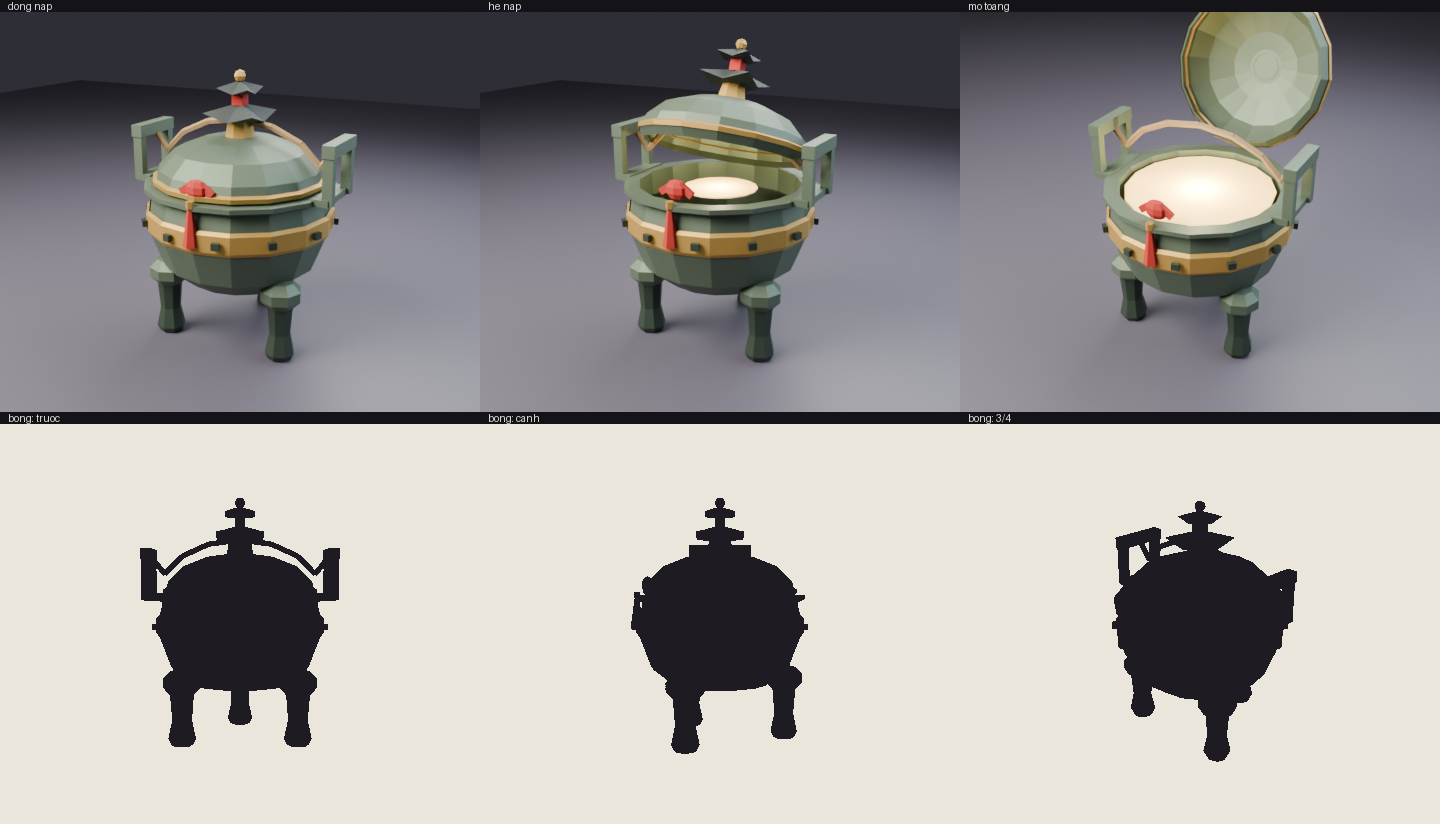
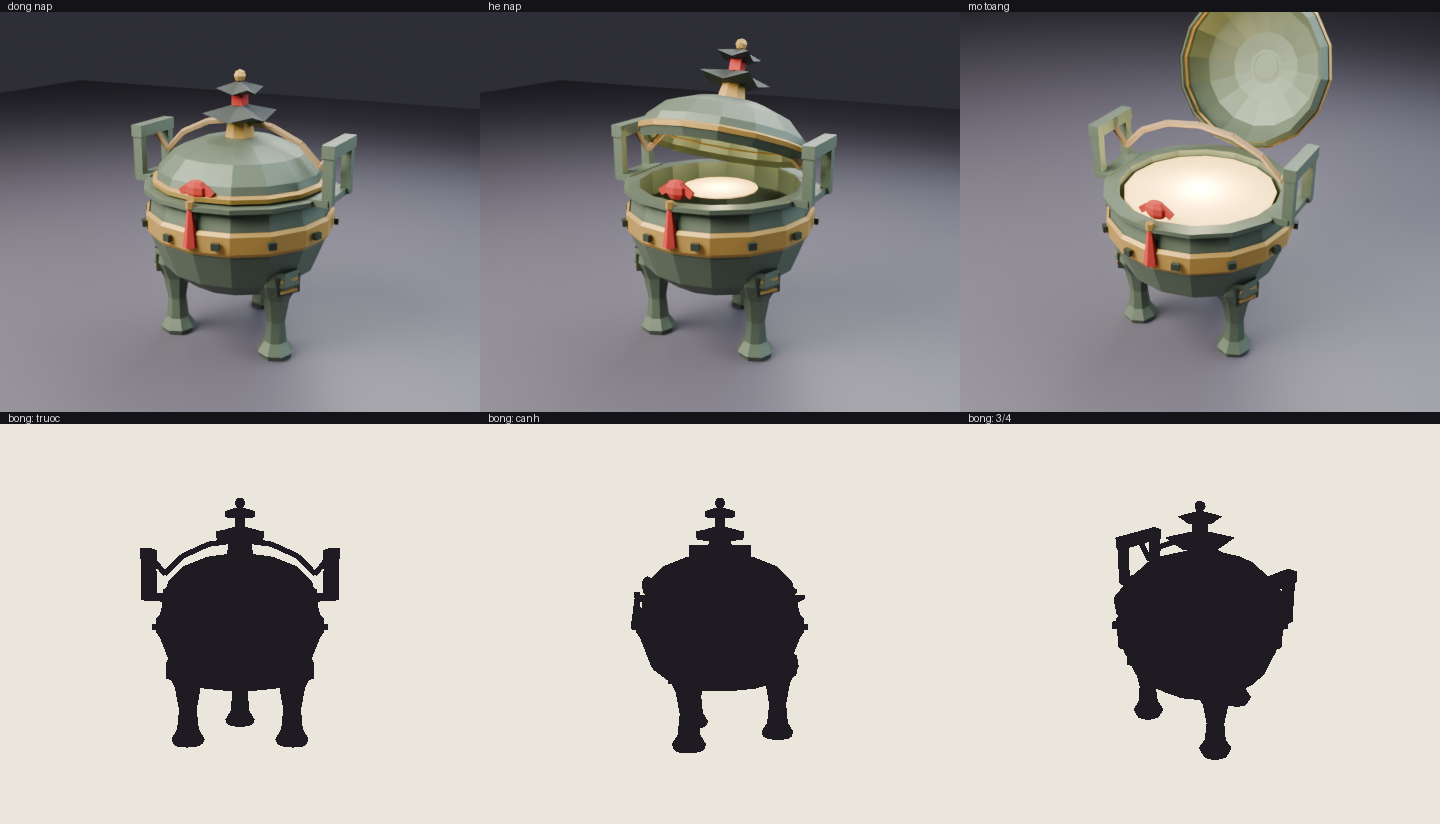
Rương Trung Hoa: chân đỉnh liền khối với thân
Claude-Session: https://claude.ai/code/session_01QKQCdbHbEBDA1zcpSSB5Zp

diff --git a/Tools/Blender/make_chest_trung_hoa.py b/Tools/Blender/make_chest_trung_hoa.py
@@ -61,11 +61,14 @@ for k in range(12):                                                    # raised 
     a = 2 * math.pi * (k + 0.5) / 12
     L["Body"].append(prim("cube", "bronze_dk", (0.18 * math.cos(a), 0.18 * math.sin(a), 0.237), rot=(0, 0, a), scale=(0.008, 0.014, 0.012), size=1))
 for k, a_deg in enumerate((-90 - 60, -90 + 60, 90)):                  # two legs front, one at the back
-    a = math.radians(a_deg); r0, r1 = 0.11, 0.135
-    leg = lathe([(0.022, 0.0), (0.028, 0.012), (0.020, 0.05), (0.024, 0.10), (0.034, 0.135)], "bronze_dk", seg=8,
-                cap_bot=True, loc=(r1 * math.cos(a), r1 * math.sin(a), 0))
-    L["Body"].append(leg)
-    L["Body"].append(prim("uv_sphere", "bronze", (r1 * math.cos(a), r1 * math.sin(a), 0.125), scale=(0.04, 0.04, 0.03), segments=8, ring_count=5, radius=1))  # leg "knee" mask
+    a = math.radians(a_deg); r1 = 0.122; c, sn = math.cos(a), math.sin(a)
+    # leg grows out of the belly: wide flared root buried in the bowl, slim waist, flared hoof foot
+    L["Body"].append(lathe([(0.030, 0.0), (0.034, 0.010), (0.022, 0.030), (0.018, 0.070), (0.026, 0.115), (0.044, 0.150), (0.040, 0.175)],
+                           "bronze", seg=8, cap_bot=True, loc=(r1 * c, r1 * sn, 0)))
+    # taotie mask plate where the leg meets the bowl, facing outward
+    L["Body"].append(prim("cube", "bronze_dk", (0.152 * c, 0.152 * sn, 0.150), rot=(0, 0, a), scale=(0.012, 0.050, 0.034), size=1))
+    for dz in (-0.01, 0.01):
+        L["Body"].append(prim("cube", "gilt", (0.159 * c, 0.159 * sn, 0.150 + dz), rot=(0, 0, a), scale=(0.004, 0.034, 0.005), size=1))
 for sx in (-1, 1):                                                     # upright ears outboard of the rim
     x = sx * 0.19
     for dy in (-0.045, 0.045):

diff --git a/Docs/Art/BanGiao3D.md b/Docs/Art/BanGiao3D.md
@@ -195,7 +195,7 @@ Tham số: độ cao đường nối nắp theo đơn vị nguồn (0,03, nằm 
 
 `Assets/_Project/Art/Chests/Chest_TrungHoa.glb`, **bản tạm, chưa gán ID hay chủ đề**. Ý tưởng: [ruong-trung-hoa](../../docs/superpowers/specs/2026-11-24-ruong-trung-hoa-design.md). Hình dáng là đỉnh đồng ba chân, nắp vòm, núm mái ngói hai tầng, cao khoảng 0,49 m.
 
-- Lớp: root `Chest_TrungHoa` gồm `Body` (1.090 tam giác), `Lid` (342, gốc ở bản lề sau miệng (0; 0,165; 0,30), lật quanh X), `Seal` (nút thắt đỏ có tua, 128), `Binding` (dây gai vắt từ quai này sang quai kia, 128) và `Glow` (đĩa sáng ở miệng, 60). Tổng 1.688 tam giác (không tính Glow). Không có `Key`.
+- Lớp: root `Chest_TrungHoa` gồm `Body` (1.102 tam giác), `Lid` (342, gốc ở bản lề sau miệng (0; 0,165; 0,30), lật quanh X), `Seal` (nút thắt đỏ có tua, 128), `Binding` (dây gai vắt từ quai này sang quai kia, 128) và `Glow` (đĩa sáng ở miệng, 60). Tổng 1.700 tam giác (không tính Glow). Chân cùng màu đồng với thân, gốc chân loe ra và lẫn vào bụng đỉnh, có tấm mặt thú ở chỗ nối. Không có `Key`.
 - Vật liệu đơn sắc: đồng xanh rỉ, vàng đồng, ngói tối, điểm nhấn đỏ. Không dùng texture.
 - Chạy: `pip install bpy pillow`, rồi `python Tools/Blender/make_chest_trung_hoa.py -- Assets/_Project/Art/Chests`.
 - Ảnh xem trước (Cycles, dựng ngoại tuyến): `python Tools/Blender/render_chest_trung_hoa_preview.py -- Assets/_Project/Art/Chests/Chest_TrungHoa.glb Assets/_Project/Art/Source/render_chest_trung_hoa_open.png 32` → `Art/Source/render_chest_trung_hoa_open.png` (đóng, hé, mở, cùng 3 góc hình bóng).
